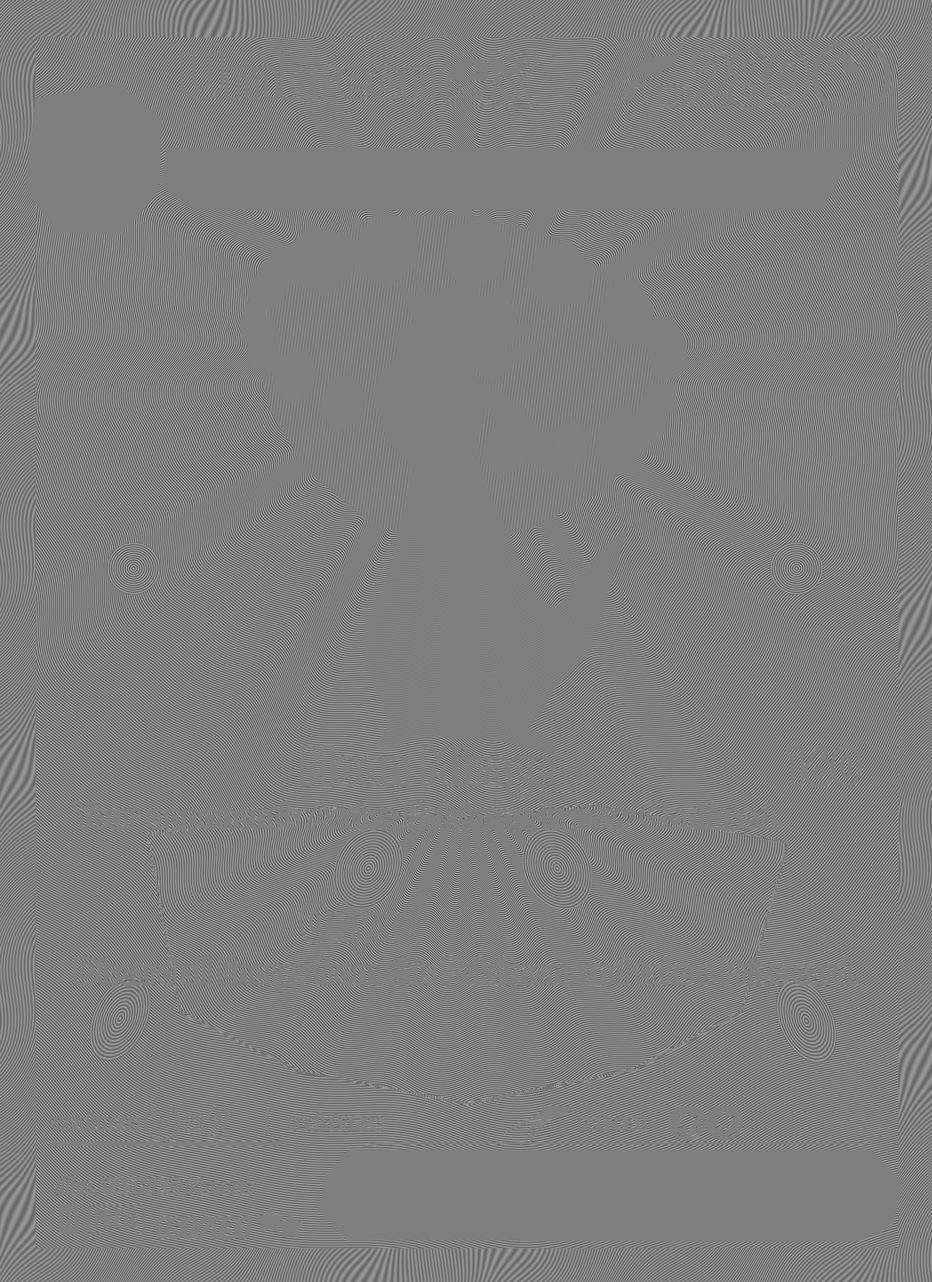
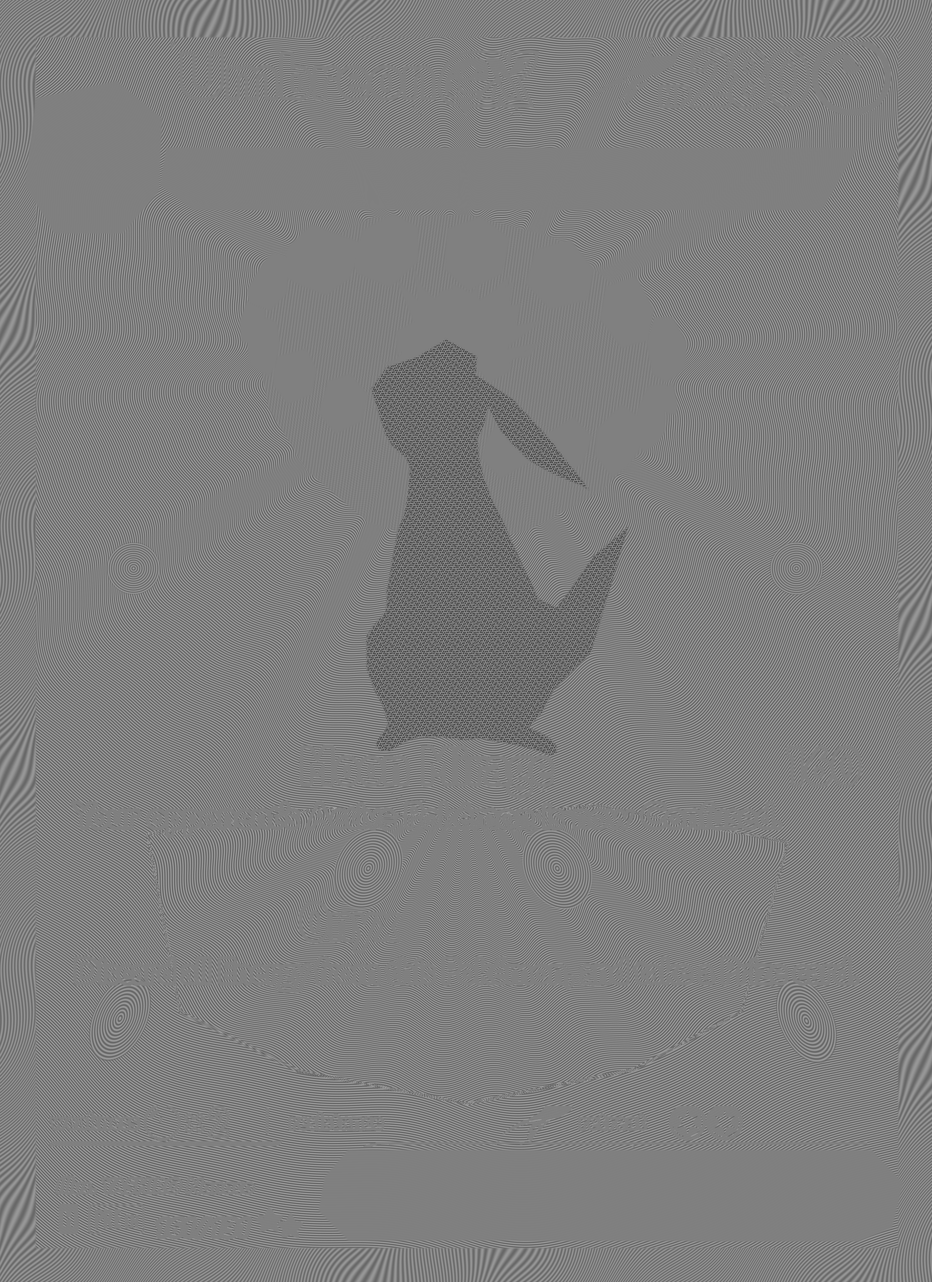
Add embossed Umbreon body texture and tighten left flank mask

Changed region(s): [[0.3733, 0.2489, 0.6533, 0.5911]]

diff --git a/tests/prismatic.test.ts b/tests/prismatic.test.ts
@@ -43,6 +43,15 @@ test('Umbreon SIR uses registered surface assets and user-authorized finish refe
   assert.equal(profile.secondary?.structure.field, 'plain');
   assert.equal(profile.secondary?.glints.microdiamond, true);
   assert.equal(profile.secondary?.structure.facetTilt, 0);
+  assert.equal(card.maps?.stamp, undefined);
+  assert.equal(profile.stamp, undefined);
+  const bodyBytes = readFileSync(new URL('maps/161-holo-body.png', path));
+  assert.equal(createHash('sha256').update(bodyBytes).digest('hex'), evidence.maps['161-holo-body.png']);
+  assert.equal(evidence.bodyReferences.length, 3);
+  for (const reference of evidence.bodyReferences) {
+    const bytes = readFileSync(new URL(`../research/prismatic-evolutions/umbreon-video/${reference.file}`, import.meta.url));
+    assert.equal(createHash('sha256').update(bytes).digest('hex'), reference.sha256);
+  }
   assert.ok(card.maps?.secondaryFoil?.endsWith('161-holo-secondary-foil.png'));
   const gemBytes = readFileSync(new URL('maps/161-holo-secondary-foil.png', path));
   assert.equal(gemBytes.readUInt32BE(16), 1800);

diff --git a/scripts/prismatic/umbreon_video_maps.py b/scripts/prismatic/umbreon_video_maps.py
@@ -24,8 +24,8 @@ SUBJECT_POINTS = [
     (249,236),(239,250),(248,279),(252,286),(257,291),(261,294),
     (263,298),(264,302),(263.5,309),(262.5,317),(261.4,325),
     (259.9,332),(257.5,338),(255.3,345),(254,352),(252.5,359),
-    (250.4,366),(247.6,373),(244.6,380),(241.4,387),(238.3,393),
-    (235.5,402),(234,409),(236,430),(241,444),
+    (251.6,366),(250.2,373),(249.1,380),(249.1,387),(248.4,393),
+    (245.3,397),(240.8,402),(236,409),(236,430),(241,444),
     (246,453),(250,466),(247,471),(243,476),(242,480),(245,483),
     (251,483),(259,478),(269,474),(284,474),(298,476),(310,475),
     (320,477),(331,479),(343,482),(355,486),(358,484),(358,480),
@@ -100,6 +100,22 @@ def polygon(points):
     im = Image.new('L', (W, H))
     ImageDraw.Draw(im).polygon([(round(x*S), round(y*S)) for x, y in points], fill=255)
     return np.asarray(im.filter(ImageFilter.GaussianBlur(1.2)), dtype=np.float32)/255
+
+
+def body_texture(x, y):
+    """Estimated shallow embossed dimples, evaluated before silhouette clipping.
+
+    Rounded manufactured geometry; neither print brightness nor noise is used
+    as height. Spacing/depth are visual estimates from the three body close-ups.
+    """
+    pitch = 1.35
+    row = np.floor(y/pitch)
+    u = x/pitch + .5*(row % 2)
+    col = np.floor(u)
+    a = u-col-.5-.17*np.sin(row*1.7+col*2.3)
+    b = y/pitch-row-.5-.15*np.sin(col*1.3-row*2.1)
+    radius = np.sqrt((a/.46)**2+(b/.39)**2)
+    return -2.3*np.maximum(0,1-radius*radius)**2
 
 
 def build(video=None):
@@ -190,6 +206,12 @@ def build(video=None):
     # Differentiate physical grooves before applying opaque ink. Differentiating
     # the protection mask would introduce a false raised/dark rim around letters.
     gy,gx = np.gradient(relief,1/S,1/S)
+    body_relief = body_texture(x,y)
+    by,bx = np.gradient(body_relief,1/S,1/S)
+    body = subject*(1-gems)
+    gx = gx*(1-body)+bx*body
+    gy = gy*(1-body)+by*body
+    relief = relief*(1-body)+body_relief*body
     gx *= (1-protection)*(1-gems)
     gy *= (1-protection)*(1-gems)
     relief *= (1-protection)*(1-gems)
@@ -199,7 +221,8 @@ def build(video=None):
     rough = .35 + .07*subject + .04*moon + .13*protection + .022*rough_wave*(1-protection)
     rough = rough*(1-gems) + .27*gems
     arrays = {'foil':foil,'protection':protection,'height':.5+relief*.19,
-              'normal':normal*.5+.5,'roughness':rough,'secondary-foil':gems}
+              'normal':normal*.5+.5,'roughness':rough,'secondary-foil':gems,
+              'body':subject*(1-gems)}
     maps = {}
     for name,array in arrays.items():
         file = OUT/f'161-holo-{name}.png'
@@ -211,6 +234,10 @@ def build(video=None):
                     rendererReady=True,textured=True,referencePolicy='Original video guides the body and ornament. User-supplied crown/gem and edge detail images guide the added microdiamond and rim finishes.',
                     video=video_evidence,
                     references=references,mapSize=[W,H],maps=maps,
+                    bodyReferences=[dict(file=name,sha256=hashlib.sha256((REF/name).read_bytes()).hexdigest(),role=role)
+                                    for name,role in [('body-bright.png','User close-up: fine body texture in bright light'),
+                                                      ('body-medium.png','User close-up: intermediate body texture response'),
+                                                      ('body-dark.png','User close-up: subdued body texture in low light')]],
                     finishReferences=[dict(file=name,sha256=hashlib.sha256((REF/name).read_bytes()).hexdigest(),role=role)
                                       for name,role in [('microdiamond-reference.png','User-authorized shared crown and gem finish from another card'),
                                                         ('edge-reference.png','User-authorized Prismatic edge etching detail'),

diff --git a/docs/umbreon-161-video.md b/docs/umbreon-161-video.md
@@ -1,15 +1,19 @@
 # Umbreon ex 161/131
 
 The picker entry `pokemon:sv08.5-161:holo` uses `prismatic_sir_texture`
-(Prismatic · SIR etched holo). Six registered 1800 × 2475 PNGs provide foil
+(Prismatic · SIR etched holo). Seven registered 1800 × 2475 PNGs provide foil
 coverage, ink protection, height, normals, absolute roughness and a separate
-crown/gem microdiamond mask. Normal-driven
+crown/gem microdiamond mask and a separate body mask. Normal-driven
 reflection and diffraction respond to the existing card tilt and studio lights.
 The gem finish uses short square microcuts with staggered rows, varied facet
 inclinations and pixel-area filtering. Individual flashes are selected by light
 and viewing angle over a restrained spectral base. It does not use the repeating
 pyramidal normal atlas, which read as grain and a regular grid in the studio.
-The curved background and character keep their original optical layer.
+The body, ear and tail use shallow rounded micro-indentations in the authored
+height and normal PNGs. No body sparkle layer is applied. The three
+user-provided bright/medium/dark close-ups are retained as `body-bright.png`,
+`body-medium.png` and `body-dark.png`. Their hashes are in `bodyReferences`.
+Dimple spacing and depth are visual estimates from those references.
 
 The original surface reference is the user-supplied
 `2026-09-24 17-52-17-00.00.09.028-00.00.33.805.mp4` (24.823 seconds).
